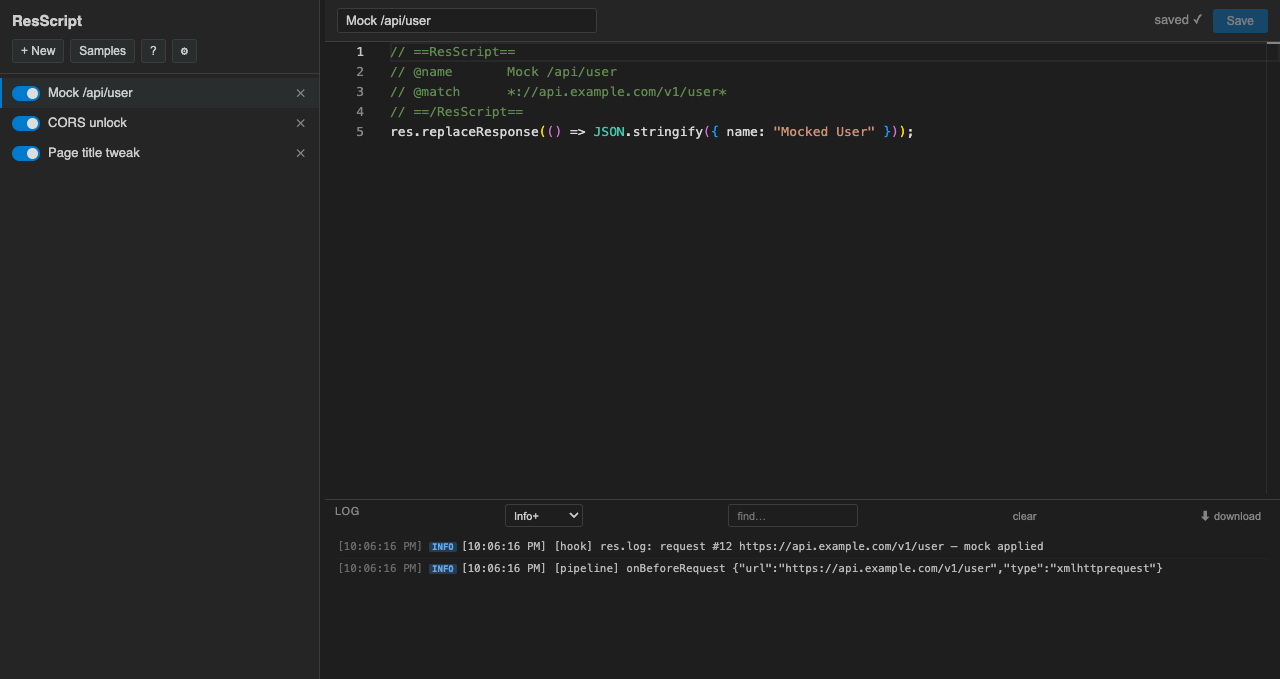
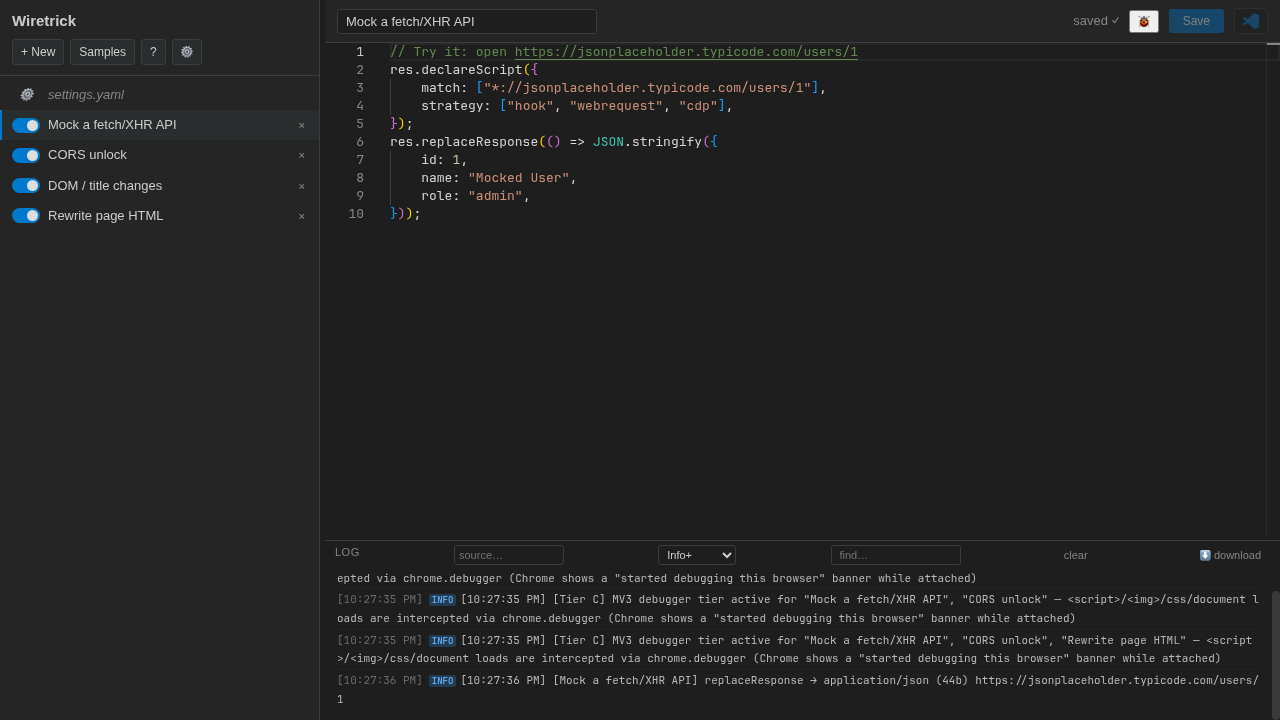
README: fresh screenshots, drop v2 from title; add screenshots script

diff --git a/scripts/screenshots.ts b/scripts/screenshots.ts
@@ -1,0 +1,68 @@
+/**
+ * Regenerates the README screenshots in docs/shots/ (MV3 bundle, needs internet).
+ *
+ * Usage: npm run build && E2E_CHROMIUM=/usr/bin/chromium npx tsx scripts/screenshots.ts
+ */
+import { spawn } from "node:child_process";
+import { mkdtempSync, readFileSync, rmSync } from "node:fs";
+import { tmpdir } from "node:os";
+import path from "node:path";
+import crypto from "node:crypto";
+import { chromium } from "playwright-core";
+import { resolveBrowser } from "../test/browserSetup";
+import { SAMPLES } from "../src/ui/samples";
+
+const ROOT = new URL("..", import.meta.url).pathname;
+const EXT_ROOT = path.join(ROOT, "dist-mv3");
+const OUT = path.join(ROOT, "docs/shots");
+const EXT_ID = crypto.createHash("sha256").update(EXT_ROOT, "utf8").digest("hex").split("").map((c) => String.fromCharCode(parseInt(c, 16) + 97)).join("").slice(0, 32);
+const SHOWN = ["Mock a fetch/XHR API", "CORS unlock", "DOM / title changes", "Rewrite page HTML"];
+const sleep = (ms: number) => new Promise((r) => setTimeout(r, ms));
+
+const profile = mkdtempSync(path.join(tmpdir(), "wiretrick-shots-"));
+const proc = spawn(await resolveBrowser(), ["--headless=new", `--user-data-dir=${profile}`, `--load-extension=${EXT_ROOT}`, "--remote-debugging-port=0", "--no-first-run", "--no-default-browser-check", "about:blank"], { stdio: "ignore" });
+await sleep(5000);
+let browser: any;
+try {
+    const [port] = readFileSync(path.join(profile, "DevToolsActivePort"), "utf8").split("\n");
+    browser = await chromium.connectOverCDP(`http://127.0.0.1:${port}`, { timeout: 90000 });
+    const ctx = browser.contexts()[0];
+    const mgr = await ctx.newPage();
+    await mgr.setViewportSize({ width: 1280, height: 720 });
+    await mgr.goto(`chrome-extension://${EXT_ID}/manager.html`);
+    const send = (msg: any) => mgr.evaluate((m: any) => new Promise<any>((r) => chrome.runtime.sendMessage(m, r)), msg);
+
+    for (const name of SHOWN) {
+        const s = SAMPLES.find((x) => x.name === name)!;
+        await send({ type: "saveScript", id: "shot_" + name.replace(/\W+/g, "_"), code: s.code, name });
+    }
+    await sleep(1500);
+
+    // produce some live log lines
+    const page = await ctx.newPage();
+    await page.goto("https://jsonplaceholder.typicode.com/users/1").catch(() => {});
+    await page.goto("https://jsonplaceholder.typicode.com/users/1").catch(() => {});
+    await page.close();
+
+    await mgr.goto(`chrome-extension://${EXT_ID}/manager.html?script=shot_Mock_a_fetch_XHR_API`);
+    await sleep(2500);
+    await mgr.screenshot({ path: path.join(OUT, "manager.png") });
+
+    await mgr.click("#btn-samples");
+    await sleep(800);
+    await mgr.screenshot({ path: path.join(OUT, "samples.png") });
+
+    const pop = await ctx.newPage();
+    const cdp = await ctx.newCDPSession(pop);
+    await cdp.send("Emulation.setDeviceMetricsOverride", { width: 600, height: 400, deviceScaleFactor: 2, mobile: false });
+    await pop.goto(`chrome-extension://${EXT_ID}/popup.html`);
+    await sleep(1500);
+    await pop.locator("body").screenshot({ path: path.join(OUT, "popup.png") });
+    console.log("wrote", OUT);
+} finally {
+    await browser?.close().catch(() => {});
+    proc.kill();
+    await sleep(500);
+    try { rmSync(profile, { recursive: true, force: true, maxRetries: 5 }); } catch { /* best effort */ }
+}
+process.exit(0);

diff --git a/README.md b/README.md
@@ -1,4 +1,4 @@
-# Wiretrick (v2 — TypeScript rewrite)
+# Wiretrick
 
 A ground-up TypeScript rewrite of [Resource Override](https://github.com/kylepaulsen/ResourceOverride).
 Instead of rule lists, the entire interface is a **script editor**: you write small
@@ -14,7 +14,7 @@ response bodies, or replace them entirely. Each script has an enable/disable tog
 
 ![Wiretrick popup — scripts active on the current tab](docs/shots/popup.png)
 
-**Sample scripts** (? → Samples — ten one-click starters):
+**Sample scripts** (Samples — one-click starters, each against a real public site):
 
 ![Wiretrick samples dialog](docs/shots/samples.png)
 
